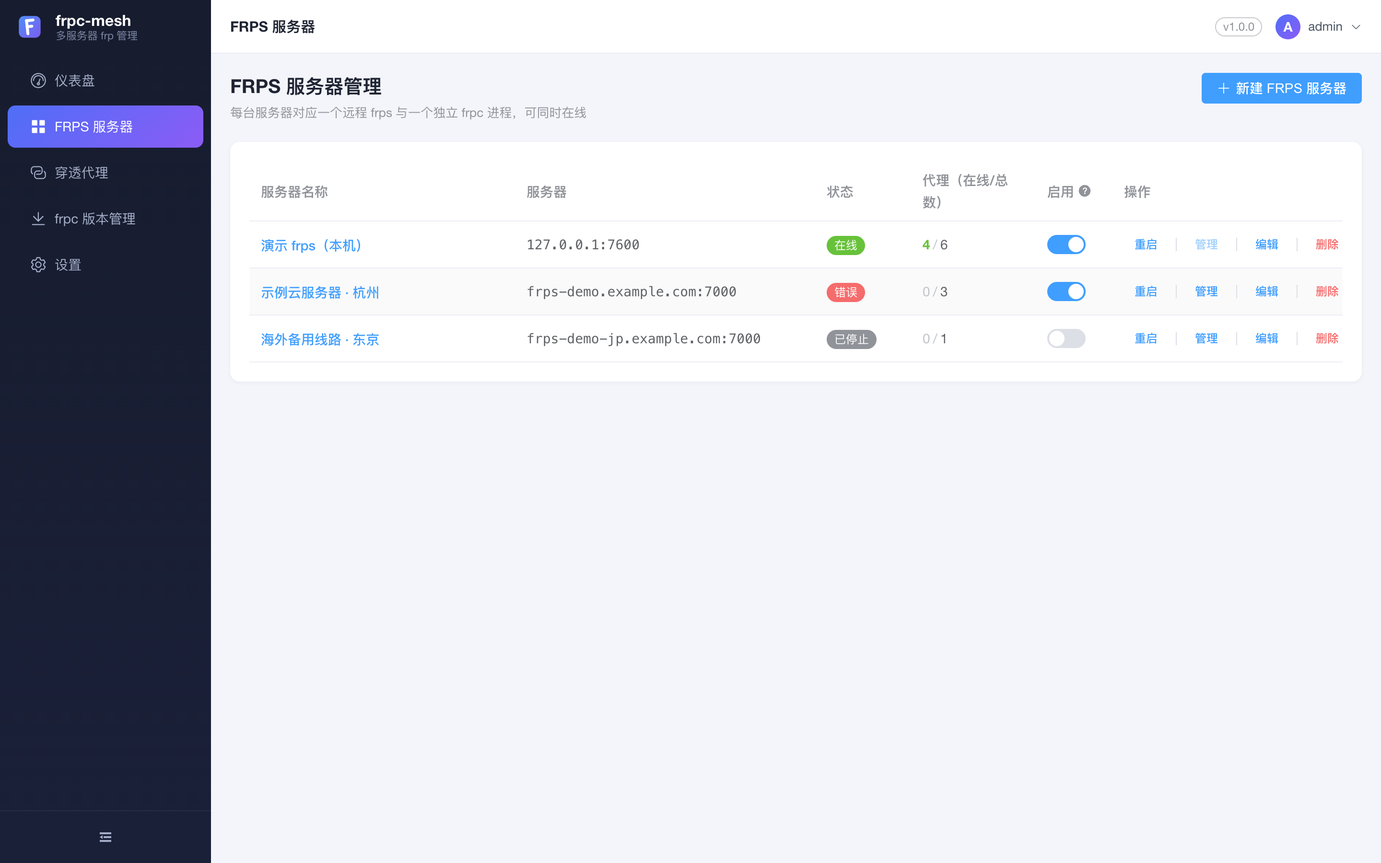
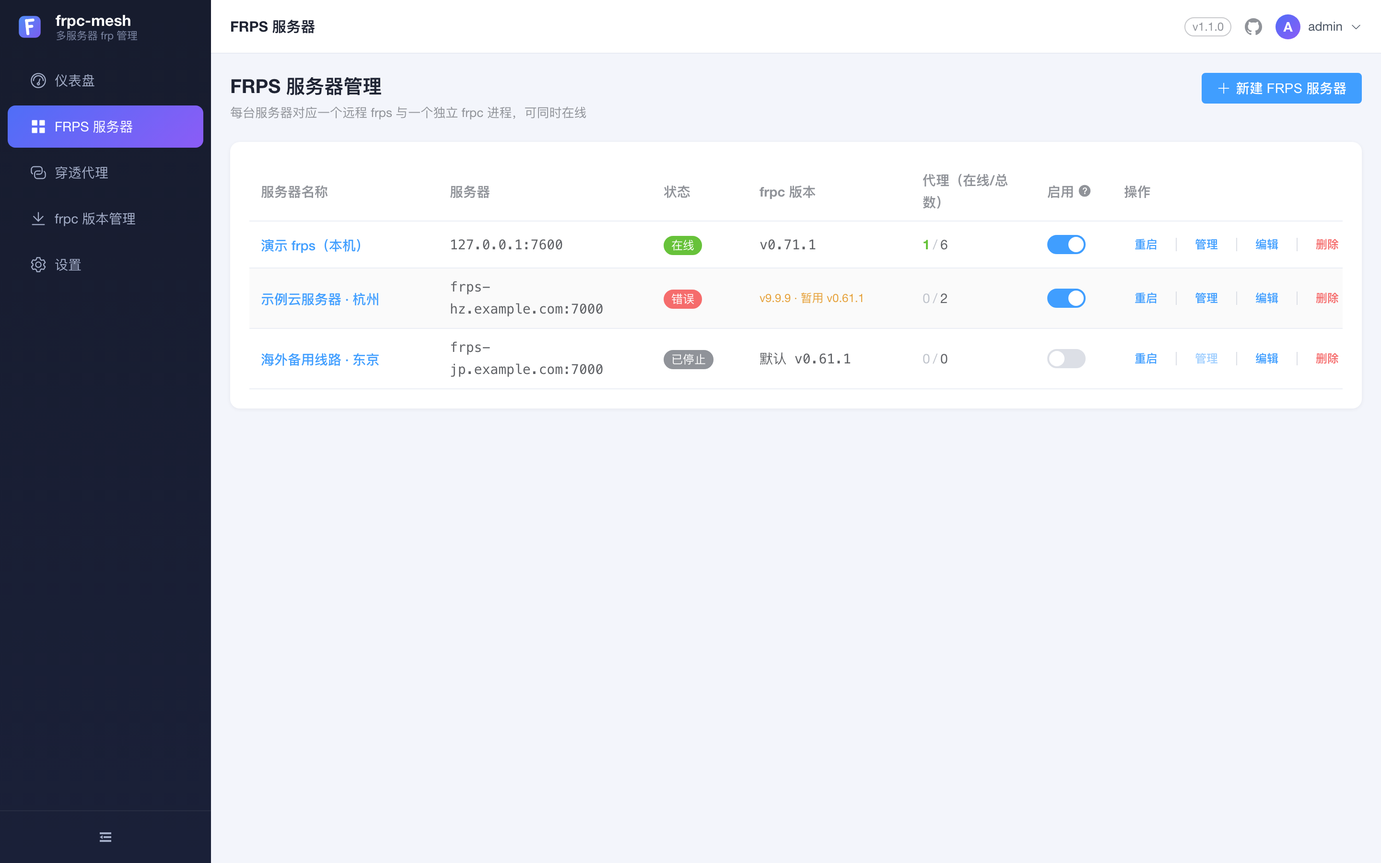
docs: 补齐 1.1 的接口契约与运维语义，截图全量重抓
- API.md：POST /api/proxies/check-port 三态口径与 400 条件、instance.frpc_version
  与 runtime.frpc_version、启用开关查重、服务器级版本与异步补下载语义
- operations.md：4.2 改写为「全局默认 + 逐台指定」（含暂用标签口径、删版本后果），
  新增第 5 节远程端口冲突与检测，排错速查补 4 行；修掉「设置页指定 frpc 路径」旧说法
- README 双语：特性补逐台版本与端口防冲突，图注按新界面重写
- 截图 13 张全部重抓（顶栏统一 v1.1.0），演示 frps 补 vhostHTTPPort 让日志截图正常
- 规格文件记录实现偏差与验收口径

diff --git a/README.md b/README.md
@@ -15,19 +15,20 @@ The point of "mesh": each frps entry (home, office, cloud VPS, …) gets its own
 | Doc | Contents |
 |---|---|
 | [docs/deployment.md](docs/deployment.md) | Three install paths (compose / image tar / plain binary tar), runtime flags, first login *(zh)* |
-| [docs/operations.md](docs/operations.md) | Data directory, backup & restore, password reset, upgrade, security boundaries, troubleshooting *(zh)* |
+| [docs/operations.md](docs/operations.md) | Data directory, backup & restore, password reset, upgrade, frpc versions (default vs per-server), remote port conflicts, security boundaries, troubleshooting *(zh)* |
 | [API.md](API.md) | Backend HTTP API contract *(zh)* |
 
 > `docs/` is still Chinese-only; [README-CN.md](README-CN.md) is the reference version.
 
 ## Features
 
-- **Multiple frps servers** — create / edit / delete, each started, stopped and restarted independently; notes, dashboard port and domain fields per server
+- **Multiple frps servers** — create / edit / delete, each started, stopped and restarted independently; notes, dashboard port, domain and an optional per-server frpc version
 - One `frpc` child process per server, TOML generated automatically (and previewable); a process that dies unexpectedly is restarted, with a circuit breaker for crash loops
 - **All tunnels on one page** — create via TCP / UDP / HTTP / HTTPS / STCP / SUDP / XTCP type cards; bandwidth limit, HTTP Basic Auth, custom domain / subdomain, encryption & compression, per-proxy enable switch, notes
+- **Remote port conflict guard** — "same as local port" fills it in one click, "Check" reports whether that remote port is already taken (by another of your proxies on this server, or by an actual listener on frps); saving re-checks automatically and refuses to save an occupied port
 - **Honest online status** — a tunnel counts as online only when frpc's log confirms it *and* the local target answers a data-layer probe; "Ping all" measures every tunnel in parallel
 - Advanced transport knobs (protocol, tcpMux, pool count, heartbeat, dial timeout, TLS, STUN) shipped with defaults chosen from real-world stability testing
-- **frpc version management** — browse upstream GitHub Releases (official source + a mirror source), download a version, switch to it, running frpc processes restart on the new binary
+- **frpc version management** — browse upstream GitHub Releases (official source + a mirror source), download a version, switch to it, running frpc processes restart on the new binary. The switched version is the *default*; each server may pin its own, and a pin that is not downloaded yet starts on the default while the download runs in the background and the server restarts onto it once it lands
 - **Self-update** — checks frpc-mesh's own latest GitHub Release (official or mirror, optionally on a schedule) and reminds you in the header; when running as a plain binary it can upgrade in place (sha256 verified, new binary self-checked, `.bak` kept for rollback, tunnels drop for a few seconds then recover), while a container deployment is pointed at reloading the image instead
 - Config backup — export / import one JSON file (servers + proxies; importing overwrites)
 - JWT login with tiered lockout after repeated failures; state re-reads itself after every write
@@ -35,21 +36,21 @@ The point of "mesh": each frps entry (home, office, cloud VPS, …) gets its own
 
 ## Screenshots
 
-> Every screenshot comes from a **throwaway demo dataset** (`127.0.0.1:7600`, `frps-demo.example.com`, `demo-token-2026`, `nas-ssh`, …). No real host, port or token appears. The UI is currently Chinese-only — captions below are translated for reference.
+> Every screenshot comes from a **throwaway demo dataset** (`127.0.0.1:7600`, `frps-demo.example.com` / `frps-hz.example.com` / `frps-jp.example.com`, `demo-token-2026`, `nas-ssh`, …). No real host, port or token appears. The UI is currently Chinese-only — captions below are translated for reference.
 
-**Dashboard** — connection state and online totals for every frps
+**Dashboard** — connection state, effective frpc version and online totals for every frps
 <img src="docs/screenshots/dashboard.png" width="900" alt="Dashboard">
 
-**FRPS servers** — per-server status, online proxy count, enable switch, restart / manage / edit / delete
+**FRPS servers** — per-server status, frpc version (default / pinned / pinned-but-not-downloaded yet), online proxy count, enable switch, restart / manage / edit / delete
 <img src="docs/screenshots/instances.png" width="900" alt="FRPS servers">
 
-**Proxies** — one tab per server, type cards for creation, online state and ping latency
+**Proxies** — one tab per server (with its frpc version), type cards for creation, online state and ping latency
 <img src="docs/screenshots/proxies.png" width="900" alt="Proxies">
 
 <details>
 <summary>Remaining screens (forms / config / logs / versions / settings)</summary>
 
-**New FRPS server** — address, token, dashboard port, domain, notes
+**New FRPS server** — address, token, dashboard port, domain, frpc version (empty follows the default), notes
 <img src="docs/screenshots/instance-new.png" width="900" alt="New FRPS server">
 
 **Transport** — protocol, tcpMux, pool count, heartbeat, TLS
@@ -58,13 +59,13 @@ The point of "mesh": each frps entry (home, office, cloud VPS, …) gets its own
 **Admin API** — the local frpc admin endpoint used for tunnel details
 <img src="docs/screenshots/instance-adminapi.png" width="900" alt="Admin API settings">
 
-**New TCP proxy** — the local address can be filled with the host address in one click
+**New TCP proxy** — the local address can be filled with the host address in one click; the remote port has "same as local" and a check that names whoever occupies it
 <img src="docs/screenshots/proxy-new-tcp.png" width="900" alt="New TCP proxy">
 
 **New HTTP proxy** — custom domain / subdomain / path / Basic Auth
 <img src="docs/screenshots/proxy-new-http.png" width="900" alt="New HTTP proxy">
 
-**Edit proxy** — enable switch, encryption & compression, bandwidth limit
+**Edit proxy** — enable switch, remote port check, encryption & compression, bandwidth limit
 <img src="docs/screenshots/proxy-edit.png" width="900" alt="Edit proxy">
 
 **Config preview** — the frpc TOML generated by the backend (read-only, copyable)
@@ -73,10 +74,10 @@ The point of "mesh": each frps entry (home, office, cloud VPS, …) gets its own
 **Logs** — the last 500 lines of frpc output, auto-refresh and clear
 <img src="docs/screenshots/run-logs.png" width="900" alt="Runtime logs">
 
-**frpc versions** — fetch Releases, download, switch
+**frpc versions** — fetch Releases, download, switch the default; a version pinned by a server comes back on its own at the next start or when that server is saved
 <img src="docs/screenshots/versions.png" width="900" alt="frpc version management">
 
-**Settings** — active frpc version, start-on-boot, frpc-mesh version check & one-click upgrade, backup export/import, change password
+**Settings** — default frpc version, start-on-boot, frpc-mesh version check & one-click upgrade, backup export/import, change password, links to this repository
 <img src="docs/screenshots/settings.png" width="900" alt="Settings">
 
 </details>
@@ -103,10 +104,10 @@ docker compose up -d --build     # see docs/deployment.md (adjust the data dir i
 
 Typical flow:
 
-1. **FRPS 服务器** (servers) → create one: frps `server_addr` / `server_port` / token, then start it
-2. **穿透代理** (proxies) → pick a type card → local `ip:port` and remote port
+1. **FRPS 服务器** (servers) → create one: frps `server_addr` / `server_port` / token, optionally pin an frpc version for it, then start it
+2. **穿透代理** (proxies) → pick a type card → local `ip:port` and remote port (fill "same as local" and check it if you are not sure the port is free)
 3. Same page: watch online status, hit **Ping all** for latency, open **配置文件 / 运行日志** (config / logs) when something is off
-4. **设置** (settings) → confirm the frpc binary, enable start-on-boot, export a backup
+4. **设置** (settings) → confirm the default frpc binary, enable start-on-boot, export a backup
 
 When frpc-mesh itself runs in a container and you tunnel to a service on the host, the proxy's **local address** must be `host.docker.internal` (the form has a one-click chip for it) — `127.0.0.1` points at the container.
 

diff --git a/API.md b/API.md
@@ -40,6 +40,8 @@
 - `GET /api/instances/{id}/config` → `{"toml":"serverAddr = ...\n..."}`（生成的 frpc TOML 预览）
 - `GET /api/instances/{id}/proxies/online` → `{"online_ids":[1,2,3]}`（在线隧道 ID；判定 = frpc 日志确认隧道建立 + 本地目标数据层可达，visitor/udp 只看隧道）
 
+新建/保存实例时若 `frpc_version` 不是 `x.y.z` 形式返回 400；保存后若该版本本地尚未下载，会**异步补下载**（见「frpc 版本管理」的补下载语义），不阻塞保存、不把失败报给前端。
+
 ### instance 对象
 ```json
 {
@@ -52,6 +54,7 @@
   "manage_port": 7500,              // frps 管理面板端口，选填；前端「管理」按钮据此组装 http://server_addr:manage_port
   "remark": "备注说明",              // 选填，服务器备注
   "domain": "frps.example.com",     // 选填，服务器域名；代理列表远程链接优先用域名，缺省回退 server_addr
+  "frpc_version": "0.71.1",         // 选填，本台服务器使用的 frpc 版本；空串=跟随「frpc 版本管理」激活的默认版本
   "enabled": true,                  // 应用启动时自动拉起
   "transport": {                    // 可整体缺省
     "protocol": "tcp",              // tcp|kcp|quic|wss|websocket
@@ -78,7 +81,8 @@
     "pid": 12345,
     "started_at": "2026-10-25T10:00:05Z",
     "uptime_seconds": 120,
-    "last_error": ""
+    "last_error": "",
+    "frpc_version": "0.71.1"        // 该进程**实际运行**的 frpc 版本；空串=跑在探测到的系统 frpc 上，版本未知
   }
 }
 ```
@@ -87,7 +91,18 @@
 - `GET /api/instances/{id}/proxies` → `[proxy]`（含 kind=proxy 与 kind=visitor）
 - `POST /api/instances/{id}/proxies` `{proxy}` → `proxy` (201)（若实例进程在跑会自动重启生效）
 - `PUT /api/proxies/{pid}` `{proxy}` → `proxy`
+- `PUT /api/proxies/{pid}/enabled` `{"enabled":true}` → `proxy`（启用/禁用；启用时同样做远程端口占用校验，占用返回 400）
 - `DELETE /api/proxies/{pid}` → `{"ok":true}`
+- `POST /api/proxies/check-port` `{"instance_id":1,"type":"tcp","remote_port":6000,"exclude_proxy_id":7}` →
+```json
+{
+  "state": "free",       // free | occupied | unknown
+  "holder": "",          // occupied 时给出占用方描述：「服务器「xxx」的代理「yyy」」
+  "note": ""             // unknown 时的原因说明（udp 不可探测等）
+}
+```
+  判定顺序：先在**同一台 frps**（`server_addr`+`server_port` 相同）、**同协议**、已启用的代理里查同名远程端口（tcp 与 udp 端口空间互不影响，故只在同协议内比对），命中即 `occupied`；未命中且是 tcp 时再对 `server_addr:remote_port` 做一次 2 秒连接探测——连上即 `occupied`（`exclude_proxy_id` 用于编辑时排除自己：若唯一占用者就是被排除的那条且其实例正在运行，则视为 `free`），连接被拒绝即 `free`，其它网络错误（超时、DNS 失败、frps 不可达）为 `unknown`。udp 从不探测，只比对本机配置，因此无冲突时返回 `unknown`（`note` 说明原因）；非 tcp/udp 类型同样返回 `unknown`。**`unknown` 不阻断保存**，只有 `occupied` 阻断。`instance_id` 不存在、`remote_port` 不在 1-65535 返回 400。
+- 保存（新建/编辑）与启用兜底：`remote_port > 0` 且同机同协议存在**已启用**的同端口代理时返回 400（编辑时排除自身），错误信息指明占用方；前端「保存并应用」在未手动检测过时会先调一次 check-port，`occupied` 则不发出保存请求
 
 ### proxy 对象
 ```json
@@ -123,7 +138,7 @@ visitor 的 `type` 也取 stcp/xtcp/sudp；visitor 的 `name` 生成 `[[visitors
   - `auto_start`: 服务启动时自动拉起所有 enabled 服务器连接
   - `auto_update_check`: 后台每 6 小时联网检查 frpc-mesh 自身新版本（仅提醒，不自动下载/升级）
 - `PUT /api/settings` `{"auto_start":true,"auto_update_check":false}` → 同 GET；**字段缺省时保留原值**（外层 `*bool` 承接，不会把未提交的开关重置为默认）
-- frpc 二进制不再支持自定义路径：生效顺序为「frpc 版本管理中已激活的版本 → 系统 PATH/常见位置探测」；离线场景可将二进制放入数据目录 `versions/frpc-<版本号>` 即被识别为已下载版本
+- frpc 二进制不再支持自定义路径：解析顺序为「实例 `frpc_version` 指定的已下载版本 → 「frpc 版本管理」激活的默认版本 → 系统 PATH/常见位置探测」；离线场景可将二进制放入数据目录 `versions/frpc-<版本号>` 即被识别为已下载版本
 
 - `GET /api/settings/backup` → 备份文件：`{"app":"frpc-mesh","version":1,"exported_at":"...","instances":[{...instance 全字段(不含 runtime)...,"proxies":[...proxy 全字段...]}]}`
 - `POST /api/settings/backup/restore`（body 为上述备份 JSON）→ 先停止全部 frpc 进程，清空现有服务器/代理后按备份重建（ID 重新分配），再自动拉起 enabled 的服务器；返回 `{"instances":n,"proxies":m}`；body 非备份格式返回 400
@@ -145,8 +160,11 @@ visitor 的 `type` 也取 stcp/xtcp/sudp；visitor 的 `name` 生成 `[[visitors
 远程结果服务端缓存 10 分钟。
 - `POST /api/frpc/versions/download` `{"version":"0.71.1","source":"ghfast"}` → `{"ok":true}`（**异步**启动后台下载任务，立即返回；重复提交返回 400「正在下载中」）
 - `GET /api/frpc/versions/download/status?version=0.71.1` → `{"status":"downloading|done|error|none","message":"错误信息"}`（前端轮询此接口直到 done/error）
-- `POST /api/frpc/versions/activate` `{"version":"0.71.1"}` → `{"ok":true}`（设为生效版本并**重启所有运行中实例**以在线生效）
-- `DELETE /api/frpc/versions/{version}` → `{"ok":true}`（删除本地二进制；生效中的版本拒绝删除）
+- `POST /api/frpc/versions/activate` `{"version":"0.71.1"}` → `{"ok":true}`（设为**默认版本**并重启所有运行中实例以在线生效；pin 了版本的实例也会被重启一次，但重启后仍跑自己 pin 的版本）
+- `DELETE /api/frpc/versions/{version}` → `{"ok":true}`（删除本地二进制；生效中的默认版本拒绝删除。被某台服务器 pin 的版本删掉后，下次启动服务或保存该服务器时会自动补下载并切回）
+
+### 服务器级版本与补下载
+实例的 `frpc_version` 非空即 pin 一个版本，此时该实例的生效顺序是：pin 且已下载 → 用 pin 版本；pin 但本地没有 → **先用默认版本启动**，服务启动完成（`StartEnabled`）或保存该服务器后再异步补下载；下载成功 → 自动重启 pin 该版本的运行中实例（隧道中断数秒后自恢复，与重启语义一致）；下载失败（含该版本已从远程消失）→ 不重试、不报错给前端，保持默认版本，等下次进程启动或保存服务器时再试（保存服务器会清除失败标记，给用户一个手动重试的入口）。`runtime.frpc_version` 始终反映**进程实际运行**的版本，因此 pin 未到位时前端显示「v9.9.9 · 暂用 v0.61.1」这类回退标签。
 
 ## frpc-mesh 自更新
 检测本工具自身在 GitHub Releases 上的新版本，并在**非容器**环境支持一键升级。

diff --git a/README-CN.md b/README-CN.md
@@ -16,17 +16,18 @@
 | 文档 | 内容 |
 |---|---|
 | [docs/deployment.md](docs/deployment.md) | 三种部署方式（compose / 镜像包 / 普通包）、运行参数、首次登录 |
-| [docs/operations.md](docs/operations.md) | 数据目录、备份恢复、账号重置、升级、安全边界、排错速查 |
+| [docs/operations.md](docs/operations.md) | 数据目录、备份恢复、账号重置、升级、frpc 版本（默认与逐台指定）、远程端口冲突、安全边界、排错速查 |
 | [API.md](API.md) | 后端 HTTP 接口契约 |
 
 ## 功能
 
-- 多 FRPS 服务器：新增/编辑/删除，每台独立启动、停止、重启，互不影响；支持备注、管理端口、域名
+- 多 FRPS 服务器：新增/编辑/删除，每台独立启动、停止、重启，互不影响；支持备注、管理端口、域名，并可为每台单独指定 frpc 版本
 - 每台服务器独立 frpc 子进程，TOML 配置自动生成（可预览），进程意外退出自动重启（连续快速退出熔断）
 - 穿透代理全局页：TCP/UDP/HTTP/HTTPS/STCP/SUDP/XTCP 类型卡片快速创建，支持带宽限制、Basic Auth、自定义域名/子域名、加密压缩、启用/禁用开关、备注
+- 远程端口防冲突：「同本地端口」一键填入，「检测」查这台 frps 上该端口是否已被本机其它代理占用或实际连通被占；保存时自动再检一次，占用则阻断保存并提示改端口
 - 隧道在线判定：日志关键字 + 本地目标数据层探测双重确认；「全部 Ping」并行测延迟
 - 高级传输参数：STUN、心跳/保活/tcpMux/连接池等，默认值已按实测稳定性预设
-- **frpc 版本管理**：在线扫描 GitHub Releases（官方/ghfast 镜像双数据源），下载指定版本、一键切换并自动重启运行中的 frpc 在线生效
+- **frpc 版本管理**：在线扫描 GitHub Releases（官方/ghfast 镜像双数据源），下载指定版本、一键切换并自动重启运行中的 frpc 在线生效；全局切换的是**默认版本**，服务器可各自 pin 一个版本，缺失时先用默认版本启动、后台补下载完成后自动重启切换
 - **自身版本更新**：检查 frpc-mesh 在 GitHub Releases 的最新版本并在顶栏提醒（双数据源、可定时自动检查）；二进制运行时支持就地升级（sha256 校验 + 新包自检 + 保留 `.bak` 回滚，隧道中断数秒后自动恢复），容器内运行则只提示换镜像重建
 - 配置备份：导出/导入 JSON（服务器+代理全量，导入即覆盖恢复）
 - 实时状态自愈回刷、JWT 登录认证、登录失败分级锁定防爆破
@@ -34,21 +35,21 @@
 
 ## 界面预览
 
-> 截图全部来自一套**虚构的演示数据**（`127.0.0.1:7600`、`frps-demo.example.com`、`demo-token-2026`、`nas-ssh` 等），不含任何真实服务器信息。
+> 截图全部来自一套**虚构的演示数据**（`127.0.0.1:7600`、`frps-demo.example.com` / `frps-hz.example.com` / `frps-jp.example.com`、`demo-token-2026`、`nas-ssh` 等），不含任何真实服务器信息。
 
-**仪表盘** — 多台 frps 的连接状态与在线汇总
+**仪表盘** — 多台 frps 的连接状态、每台的 frpc 生效版本与在线汇总
 <img src="docs/screenshots/dashboard.png" width="900" alt="仪表盘">
 
-**FRPS 服务器** — 逐台状态、在线代理数、启用开关与重启/管理/编辑/删除
+**FRPS 服务器** — 逐台状态、frpc 版本（默认 / 已 pin / pin 未下载时暂用默认）、在线代理数、启用开关与重启/管理/编辑/删除
 <img src="docs/screenshots/instances.png" width="900" alt="FRPS 服务器">
 
-**穿透代理** — 按服务器分 Tab，类型卡片创建，在线状态与「全部 Ping」延迟
+**穿透代理** — 按服务器分 Tab（Tab 上带 frpc 版本），类型卡片创建，在线状态与「全部 Ping」延迟
 <img src="docs/screenshots/proxies.png" width="900" alt="穿透代理">
 
 <details>
 <summary>展开其余界面（表单 / 配置 / 日志 / 版本 / 设置）</summary>
 
-**新建 FRPS 服务器** — 地址、Token、管理端口、域名、备注
+**新建 FRPS 服务器** — 地址、Token、管理端口、域名、frpc 版本（留空跟随默认）、备注
 <img src="docs/screenshots/instance-new.png" width="900" alt="新建 FRPS 服务器">
 
 **传输 transport** — 协议、tcpMux、连接池、心跳、TLS
@@ -57,13 +58,13 @@
 **Admin API** — 本机 frpc 管理端口，用于隧道明细
 <img src="docs/screenshots/instance-adminapi.png" width="900" alt="Admin API">
 
-**新建 TCP 代理** — 本地地址可一键填入宿主机地址
+**新建 TCP 代理** — 本地地址可一键填入宿主机地址；远程端口可「同本地端口」，「检测」会给出占用方提示
 <img src="docs/screenshots/proxy-new-tcp.png" width="900" alt="新建 TCP 代理">
 
 **新建 HTTP 代理** — 自定义域名 / 子域名 / 路径 / Basic Auth
 <img src="docs/screenshots/proxy-new-http.png" width="900" alt="新建 HTTP 代理">
 
-**编辑代理** — 启用开关、加密压缩、带宽限制
+**编辑代理** — 启用开关、远程端口检测、加密压缩、带宽限制
 <img src="docs/screenshots/proxy-edit.png" width="900" alt="编辑代理">
 
 **配置文件预览** — 后端自动生成的 frpc TOML（只读、可复制）
@@ -72,10 +73,10 @@
 **运行日志** — 最近 500 行 frpc 输出，可自动刷新与清空
 <img src="docs/screenshots/run-logs.png" width="900" alt="运行日志">
 
-**frpc 版本管理** — 在线拉取 Releases、下载并一键切换
+**frpc 版本管理** — 在线拉取 Releases、下载并一键切换默认版本；服务器 pin 的版本若被删除，下次启动或保存该服务器时自动补回
 <img src="docs/screenshots/versions.png" width="900" alt="frpc 版本管理">
 
-**设置** — frpc 生效版本、开机自启、frpc-mesh 版本检查与一键升级、备份导出导入、修改密码
+**设置** — frpc 默认版本、开机自启、frpc-mesh 版本检查与一键升级、备份导出导入、修改密码、开源仓库入口
 <img src="docs/screenshots/settings.png" width="900" alt="设置">
 
 </details>
@@ -102,10 +103,10 @@ docker compose up -d --build     # 详见 docs/deployment.md（先按需改 comp
 
 使用流程：
 
-1. **FRPS 服务器**页 → 新建服务器：填 frps 的 server_addr / server_port / token，启动
-2. **穿透代理**页 → 类型卡片添加代理：填本地 IP:端口、远程端口
+1. **FRPS 服务器**页 → 新建服务器：填 frps 的 server_addr / server_port / token，可按需为这台指定 frpc 版本（留空用默认），启动
+2. **穿透代理**页 → 类型卡片添加代理：填本地 IP:端口、远程端口（可「同本地端口」，不确定就点「检测」）
 3. 在同一页查看在线状态/延迟，「全部 Ping」测连通；「配置文件」「日志」按钮排查问题
-4. **设置**页确认 frpc 路径、开启开机自启、备份导出/导入
+4. **设置**页确认 frpc 默认版本、开启开机自启、备份导出/导入
 
 容器内穿透宿主机服务时，代理"本地 IP"填 `host.docker.internal`（表单有快捷芯片）；`127.0.0.1` 指向的是容器自身。
 

diff --git a/docs/superpowers/specs/2026-10-31-iter-1.1-design.md b/docs/superpowers/specs/2026-10-31-iter-1.1-design.md
@@ -114,3 +114,13 @@
 ## 7. 发布
 
 分支 `feat/iter-1.1` → PR（Closes #6）→ 合并 → `make VERSION=1.1.0 release` → 上传 4 包 + `sha256sums.txt` → tag `v1.1.0` 发布。生产容器重建留待用户醒后确认（会中断隧道数秒）。
+
+## 8. 实现偏差与补充（验收记录）
+
+相对本规格的改动，均已实测通过：
+
+- **外部发起的下载也会自动切换**（§2.4 只写了 reconcile 自己触发的下载）：在「frpc 版本管理」页手动下载某版本时，reconcile 会挂到同一个下载任务的观察上，下载完成后同样自动重启指定该版本的运行中实例。同时「已有任务在下载中」不再被误判为失败。
+- **禁用代理不参与保存兜底查重**（§3.2 原口径会把禁用代理也算成占用）：本机查重只看 `enabled` 的代理；相应地，「启用」开关补了同一道查重，避免绕过保存路径把端口抢过去。
+- **`frpc_version` 格式校验**：非 `x.y.z` 直接 400，防止脏数据把 reconcile 卡在永远下载不到的版本号上。
+- **版本快照并入实例 store**（§2.3 原按四处各自拉取）：随 10 秒轮询刷新，四处视图与编辑抽屉共用一份数据，避免切页时版本标签短暂过期。
+- **截图范围**：§6 写「受影响截图（instances / proxies / settings / login）」，实际把 `docs/screenshots/` 全部 13 张重抓了一遍——顶栏版本芯片从 v1.0.0 变成 v1.1.0，只换部分会让图集里出现两个版本号。登录页无截图条目，未新增。演示 frps 补了 `vhostHTTPPort`，让「运行日志」截图是正常的 `start proxy success` 而不是 http 代理报错刷屏。
